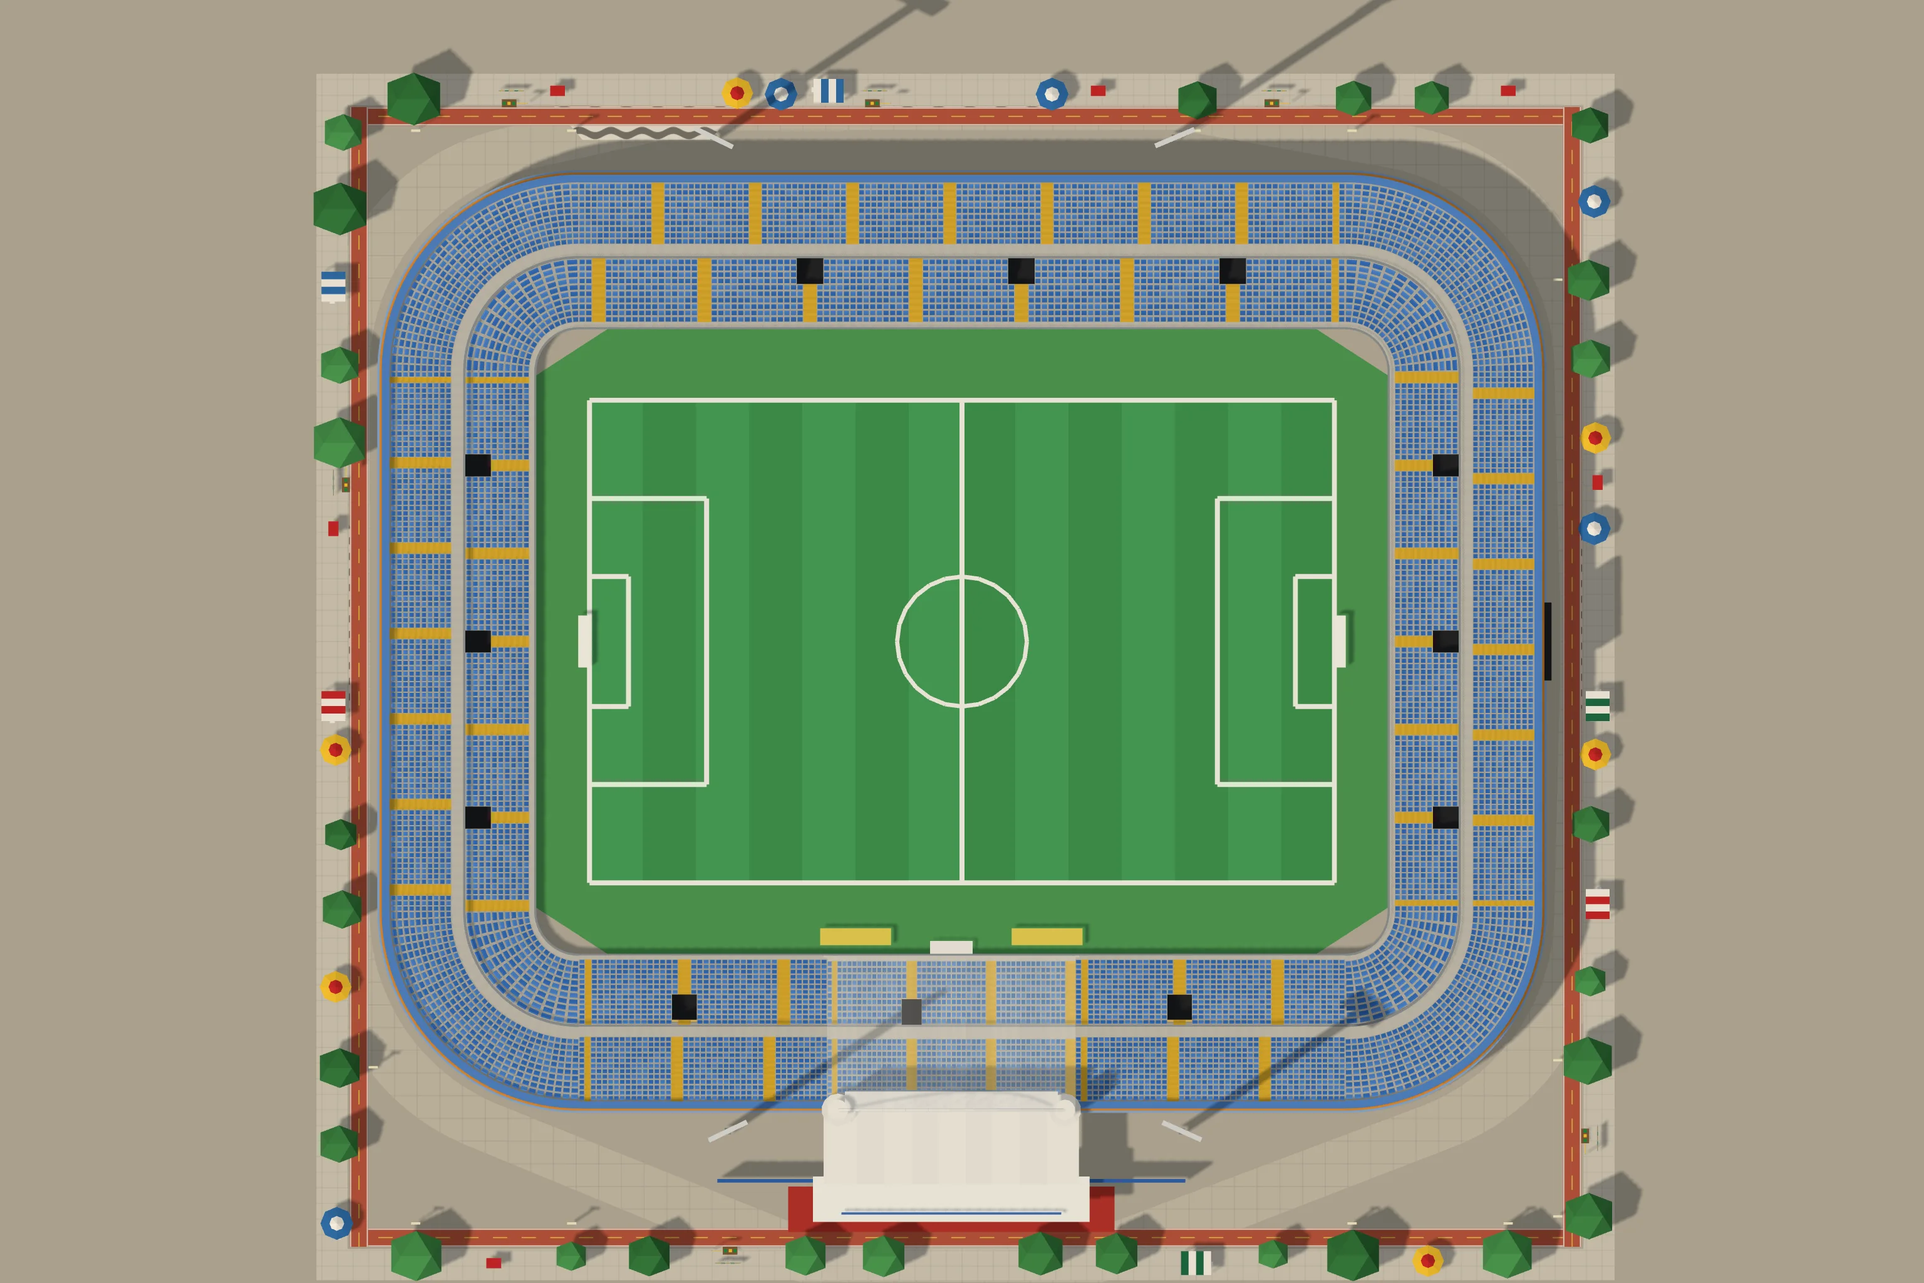
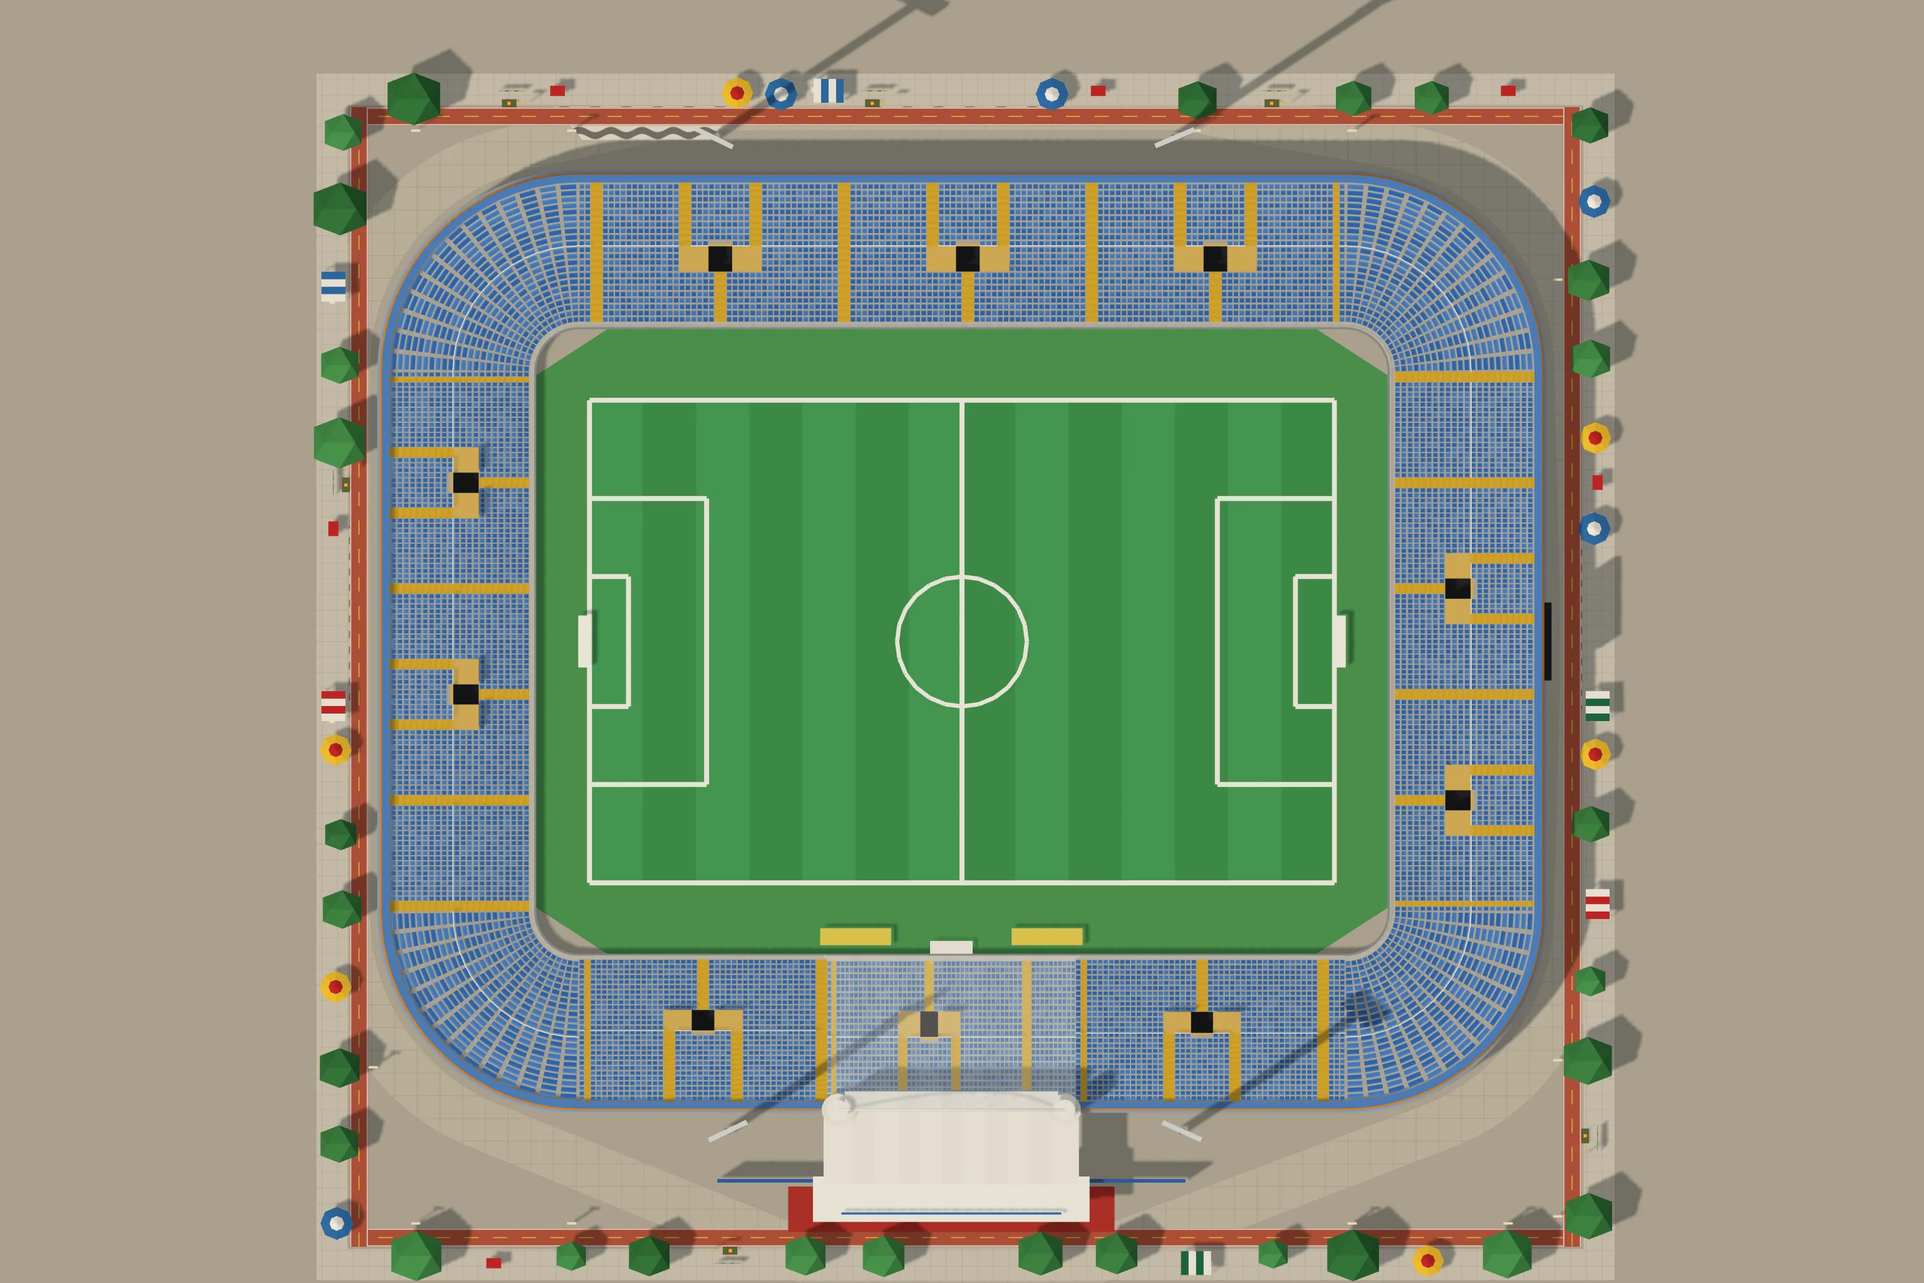
Presidente Vargas: um lance só, com os ferros de proteção e as bocas em Y
Correção do dono: não são dois andares. O gerador ganhou a boca em Y com
patamares e o corrimão corrido ao longo de uma fileira.

Claude-Session: https://claude.ai/code/session_019hwwMAyyP7ZAvyq6wYTetr

Changed region(s): [[0.1875, 0.125, 0.8125, 0.875]]

diff --git a/cenario3d/planta.html b/cenario3d/planta.html
@@ -289,24 +289,24 @@ button:focus-visible, input:focus-visible { outline: 2px solid var(--selecao); o
 
 <script type="module">
 import * as THREE from 'https://cdn.jsdelivr.net/npm/three@0.160.0/build/three.module.min.js';
-import { planoDaCasa, montarCasa, juntarBlocos, lugarDoDecalque, placasDoLote, segmentosDoMuro, carrosDoEstacionamento, portaoDoEstacionamento } from './js/casas3d.js?v=41486aef11';
-import { montarModelos } from './js/modelos3d.js?v=41486aef11';
-import { moldeDaPeca, comTransformador } from './js/props3d.js?v=41486aef11';
-import { ATLAS } from './js/modelos_atlas.js?v=41486aef11';
-import { Construtor, sorteio } from './js/construtor3d.js?v=41486aef11';
-import { gerarProposta, MAPAS, MAPA_DO_PORTE, RUA, LONGE_DO_ESTADIO_M, cisaoDaPraca, VAO_CIDADES_M, PRAIA_A_MAIS } from './js/proposta.js?v=41486aef11';
-import { montarSede, nivelQueCabe } from './js/sede3d.js?v=41486aef11';
-import { onibus as onibusDetalhe, juntar as juntarDetalhe } from './js/detalhe3d.js?v=41486aef11';
-import { montarLoteDeVeraneio, plantaDoLote, festaNoMundo, noMundoDoLote, cenaDaFesta, detalheDaCasaDaFesta } from './js/veraneio3d.js?v=41486aef11';
-import { montarCaravana, cenaDaCaravana } from './js/caravana3d.js?v=41486aef11';
-import { montarEstacao, montarTunel, montarCarro, TREM } from './js/metro3d.js?v=41486aef11';
-import { montarShopping, montarDelegacia, montarPraca, montarIgreja, montarEscola, montarHospital } from './js/equip3d.js?v=41486aef11';
-import { montarEquipAntigo, TIPOS_ANTIGOS } from './js/equip_antigo3d.js?v=41486aef11';
-import { PECAS_PRAIA, montarPecaDaPraia } from './js/praia3d.js?v=41486aef11';
-import { ESPECIES_LP, FLORA_LP, montarArvoreLowpoly, montarAsDez, facesDaArvore, especieLowpolyDe } from './js/arvores_lowpoly.js?v=41486aef11';
-import { plantarMato, montarMato, LONGE_M, DENSIDADE, LADRILHO_M } from './js/mato3d.js?v=41486aef11';
-import { ESTADIOS_JOGO, montarEstadioJogo, glbDoEstadio, cortarEstadio, plantaDoEstadio, modeloDaLotacao, nomeDoLetreiro, nomeComAcento, marcaDoEstadio, BOCAS_DOS_PORTOES, BILHETERIAS_DA_RUA } from './js/estadios3d.js?v=41486aef11';
-import { PECAS_AMBULANTES, montarAmbulante } from './js/ambulantes3d.js?v=41486aef11';
+import { planoDaCasa, montarCasa, juntarBlocos, lugarDoDecalque, placasDoLote, segmentosDoMuro, carrosDoEstacionamento, portaoDoEstacionamento } from './js/casas3d.js?v=72ad2dfa4f';
+import { montarModelos } from './js/modelos3d.js?v=72ad2dfa4f';
+import { moldeDaPeca, comTransformador } from './js/props3d.js?v=72ad2dfa4f';
+import { ATLAS } from './js/modelos_atlas.js?v=72ad2dfa4f';
+import { Construtor, sorteio } from './js/construtor3d.js?v=72ad2dfa4f';
+import { gerarProposta, MAPAS, MAPA_DO_PORTE, RUA, LONGE_DO_ESTADIO_M, cisaoDaPraca, VAO_CIDADES_M, PRAIA_A_MAIS } from './js/proposta.js?v=72ad2dfa4f';
+import { montarSede, nivelQueCabe } from './js/sede3d.js?v=72ad2dfa4f';
+import { onibus as onibusDetalhe, juntar as juntarDetalhe } from './js/detalhe3d.js?v=72ad2dfa4f';
+import { montarLoteDeVeraneio, plantaDoLote, festaNoMundo, noMundoDoLote, cenaDaFesta, detalheDaCasaDaFesta } from './js/veraneio3d.js?v=72ad2dfa4f';
+import { montarCaravana, cenaDaCaravana } from './js/caravana3d.js?v=72ad2dfa4f';
+import { montarEstacao, montarTunel, montarCarro, TREM } from './js/metro3d.js?v=72ad2dfa4f';
+import { montarShopping, montarDelegacia, montarPraca, montarIgreja, montarEscola, montarHospital } from './js/equip3d.js?v=72ad2dfa4f';
+import { montarEquipAntigo, TIPOS_ANTIGOS } from './js/equip_antigo3d.js?v=72ad2dfa4f';
+import { PECAS_PRAIA, montarPecaDaPraia } from './js/praia3d.js?v=72ad2dfa4f';
+import { ESPECIES_LP, FLORA_LP, montarArvoreLowpoly, montarAsDez, facesDaArvore, especieLowpolyDe } from './js/arvores_lowpoly.js?v=72ad2dfa4f';
+import { plantarMato, montarMato, LONGE_M, DENSIDADE, LADRILHO_M } from './js/mato3d.js?v=72ad2dfa4f';
+import { ESTADIOS_JOGO, montarEstadioJogo, glbDoEstadio, cortarEstadio, plantaDoEstadio, modeloDaLotacao, nomeDoLetreiro, nomeComAcento, marcaDoEstadio, BOCAS_DOS_PORTOES, BILHETERIAS_DA_RUA } from './js/estadios3d.js?v=72ad2dfa4f';
+import { PECAS_AMBULANTES, montarAmbulante } from './js/ambulantes3d.js?v=72ad2dfa4f';
 
 const $ = id => document.getElementById(id);
 const aviso = $('aviso');
@@ -323,25 +323,25 @@ function carregarScript(src) {
 }
 window.TO = window.TO || { dados: {} };
 try {
-  await carregarScript('dados/torcidas.js?v=41486aef11');
-  await carregarScript('dados/times.js?v=41486aef11');
-  await carregarScript('dados/cena_estadio.js?v=41486aef11');
-  await carregarScript('dados/cidades.js?v=41486aef11');
-  await carregarScript('dados/estadios.js?v=41486aef11');
-  await carregarScript('dados/escudos.js?v=41486aef11');
+  await carregarScript('dados/torcidas.js?v=72ad2dfa4f');
+  await carregarScript('dados/times.js?v=72ad2dfa4f');
+  await carregarScript('dados/cena_estadio.js?v=72ad2dfa4f');
+  await carregarScript('dados/cidades.js?v=72ad2dfa4f');
+  await carregarScript('dados/estadios.js?v=72ad2dfa4f');
+  await carregarScript('dados/escudos.js?v=72ad2dfa4f');
   /* o manifesto das faixas de verdade (a arte do dono, 29/09/2026): a arquibancada estende a da torcida */
-  await carregarScript('dados/faixas.js?v=41486aef11').catch(() => {});
+  await carregarScript('dados/faixas.js?v=72ad2dfa4f').catch(() => {});
   /* O DOMÍNIO DOS BAIRROS (o dono, 30/09/2026): as sedes repetidas num
      bairro saem espalhadas (nos dados, na carga) e os bares ganham o
      bairro deles — o mesmo módulo do jogo (js/mundo/dominio.js) */
-  await carregarScript('js/dominio.js?v=41486aef11').catch(() => {});
+  await carregarScript('js/dominio.js?v=72ad2dfa4f').catch(() => {});
 } catch (e) {
   aviso.textContent = 'A planta da cidade não carregou (' + e.message + '). Recarregue a página.';
   throw e;
 }
 /* os PNG dos escudos, embutidos (o montar.sh gera): sem o arquivo, o
    caminho vai direto pra img/escudos/ */
-await carregarScript('dados/escudos_embutidos.js?v=41486aef11').catch(() => {});
+await carregarScript('dados/escudos_embutidos.js?v=72ad2dfa4f').catch(() => {});
 const P = TO.dados.plantaEstadio, K = P.CIDADE, M = P.METRO, CALC = K.CALC;
 /* o mapa da vez (o pequeno, o médio ou o grande, montado pra praça
    escolhida): quem monta é usarMapa, lá embaixo */

diff --git a/cenario3d/dados/estadios_cenas.js b/cenario3d/dados/estadios_cenas.js
@@ -22397,7 +22397,7 @@ window.__ESTADIOS = {
    "visitante": 3
   },
   "foto": {
-   "imagem": "img/cenas/estadio_presidente_vargas.webp?v=11f48958",
+   "imagem": "img/cenas/estadio_presidente_vargas.webp?v=b6b58e2f",
    "mascara": "384;384;384;384;384;384;384;384;384;384;384;384;384;384;384;384;384;384;384;384;384;384;384;384;384;384;384;384;384;384;384;384;384;384;111,162,111;105,174,105;102,180,102;99,186,99;97,190,97;95,194,95;94,196,94;92,200,92;91,202,91;90,204,90;88,208,88;87,210,87;86,212,86;85,214,85;85,214,85;84,216,84;83,218,83;82,220,82;82,220,82;81,222,81;81,222,81;80,224,80;80,224,80;79,226,79;79,226,79;78,228,78;78,228,78;78,228,78;77,230,77;77,230,77;77,230,77;76,232,76;76,232,76;76,232,76;76,232,76;76,232,76;76,232,76;76,232,76;76,232,76;76,232,76;76,232,76;76,37,158,37,76;76,37,158,37,76;76,37,158,37,76;76,37,158,37,76;76,37,158,37,76;76,37,158,37,76;76,37,158,37,76;76,37,158,37,76;76,37,158,37,76;76,37,158,37,76;76,37,158,37,76;76,37,158,37,76;76,37,158,37,76;76,37,158,37,76;76,37,158,37,76;76,37,158,37,76;76,37,158,37,76;76,37,158,37,76;76,37,158,37,76;76,37,158,37,76;76,37,158,37,76;76,37,158,37,76;76,37,158,37,76;76,37,158,37,76;76,37,158,37,76;76,37,158,37,76;76,37,158,37,76;76,37,158,37,76;76,37,158,37,76;76,37,158,37,76;76,37,158,37,76;76,37,158,37,76;76,37,158,37,76;76,37,158,37,76;76,37,158,37,76;76,37,158,37,76;76,37,158,37,76;76,37,158,37,76;76,37,158,37,76;76,37,158,37,76;76,37,158,37,76;76,37,158,37,76;76,37,158,37,76;76,37,158,37,76;76,37,158,37,76;76,37,158,37,76;76,37,158,37,76;76,37,158,37,76;76,37,158,37,76;76,37,158,37,76;76,37,158,37,76;76,37,158,37,76;76,37,158,37,76;76,37,158,37,76;76,37,158,37,76;76,37,158,37,76;76,37,158,37,76;76,37,158,37,76;76,37,158,37,76;76,37,158,37,76;76,37,158,37,76;76,37,158,37,76;76,37,158,37,76;76,37,158,37,76;76,37,158,37,76;76,37,158,37,76;76,37,158,37,76;76,37,158,37,76;76,37,158,37,76;76,37,158,37,76;76,37,158,37,76;76,37,158,37,76;76,37,158,37,76;76,37,158,37,76;76,37,158,37,76;76,37,158,37,76;76,37,158,37,76;76,37,158,37,76;76,37,158,37,76;76,37,158,37,76;76,37,158,37,76;76,37,158,37,76;76,37,158,37,76;76,37,158,37,76;76,37,158,37,76;76,37,158,37,76;76,37,158,37,76;76,37,158,37,76;76,37,158,37,76;76,37,158,37,76;76,37,158,37,76;76,37,158,37,76;76,37,158,37,76;76,37,158,37,76;76,37,158,37,76;76,37,158,37,76;76,37,158,37,76;76,37,158,37,76;76,37,158,37,76;76,37,158,37,76;76,37,158,37,76;76,37,158,37,76;76,37,158,37,76;76,37,158,37,76;76,37,158,37,76;76,37,158,37,76;76,232,76;76,232,76;76,232,76;76,232,76;76,232,76;76,232,76;76,232,76;76,232,76;76,232,76;76,232,76;77,230,77;77,230,77;77,230,77;78,228,78;78,228,78;78,228,78;79,226,79;79,226,79;80,224,80;80,224,80;81,222,81;81,222,81;82,220,82;82,220,82;83,218,83;84,216,84;85,214,85;85,214,85;86,212,86;87,210,87;88,208,88;90,204,90;91,202,91;92,200,92;94,196,94;95,194,95;97,190,97;99,186,99;102,180,102;105,174,105;111,162,111;384;384;384;384;384;384;384;384;384;384;384;384;384;384;384;384;384;384;384;384;384;384;384;384;384;384;384;384;384;384;384;384;384;384"
   },
   "cena": {

diff --git a/cenario3d/js/jogo2d.js b/cenario3d/js/jogo2d.js
@@ -17,7 +17,7 @@
    cartão da partida cai perto da hora da bola e nada do que conta o
    placar passa na frente dele.
    ========================================================= */
-import { CASCA } from './jogo_casca.js?v=41486aef11';
+import { CASCA } from './jogo_casca.js?v=72ad2dfa4f';
 
 const carregarScript = src => new Promise((ok, erro) => {
   const s = document.createElement('script');
@@ -31,18 +31,18 @@ async function montarJogo() {
   caixa.innerHTML = CASCA;
   while (caixa.firstChild) document.body.appendChild(caixa.firstChild);
   /* os escudos, as fotos das praças e as bandeiras embutidos (o `IMG()` do jogo procura aqui antes do caminho) */
-  await carregarScript('dados/imagens_jogo.js?v=41486aef11').catch(() => {});
+  await carregarScript('dados/imagens_jogo.js?v=72ad2dfa4f').catch(() => {});
   /* os estádios low-poly das cenas (ferramentas/estadios/assar.js): antes do jogo, que monta as cenas quando carrega */
-  await carregarScript('dados/estadios_cenas.js?v=41486aef11').catch(() => {});
-  await carregarScript('dados/arredores_cenas.js?v=41486aef11').catch(() => {});
+  await carregarScript('dados/estadios_cenas.js?v=72ad2dfa4f').catch(() => {});
+  await carregarScript('dados/arredores_cenas.js?v=72ad2dfa4f').catch(() => {});
   /* sem o rolo do feed: a tela entre os jogos é o portal */
   window.TO = window.TO || {};
   TO.semFeed = true;
-  await carregarScript('js/jogo.js?v=41486aef11');
-  await carregarScript('js/portal.js?v=41486aef11').catch(err => console.error('o portal não carregou:', err));
+  await carregarScript('js/jogo.js?v=72ad2dfa4f');
+  await carregarScript('js/portal.js?v=72ad2dfa4f').catch(err => console.error('o portal não carregou:', err));
   /* o boneco das cenas de imagem (os dois níveis afinados, em base64) */
-  if (!TO.dados.bonecoPertoGLB) await carregarScript('dados/boneco_glb.js?v=41486aef11').catch(() => {});
-  await import('./bonecos3_global.js?v=41486aef11').catch(err => console.error('o boneco das cenas não carregou:', err));
+  if (!TO.dados.bonecoPertoGLB) await carregarScript('dados/boneco_glb.js?v=72ad2dfa4f').catch(() => {});
+  await import('./bonecos3_global.js?v=72ad2dfa4f').catch(err => console.error('o boneco das cenas não carregou:', err));
   ligar();
 }
 

diff --git a/cenario3d/jogo.html b/cenario3d/jogo.html
@@ -9,16 +9,16 @@
 <link rel="preconnect" href="https://fonts.googleapis.com">
 <link rel="preconnect" href="https://fonts.gstatic.com" crossorigin>
 <link rel="stylesheet" href="https://fonts.googleapis.com/css2?family=Barlow+Semi+Condensed:wght@500;600;700&family=Barlow:wght@400;500;600&family=IBM+Plex+Mono:wght@400;500&display=swap">
-<link rel="stylesheet" href="css/jogo.css?v=41486aef11">
-<link rel="stylesheet" href="css/jogo3d.css?v=41486aef11">
-<link rel="stylesheet" href="css/portal.css?v=41486aef11">
-<link rel="stylesheet" href="css/telas3d.css?v=41486aef11">
+<link rel="stylesheet" href="css/jogo.css?v=72ad2dfa4f">
+<link rel="stylesheet" href="css/jogo3d.css?v=72ad2dfa4f">
+<link rel="stylesheet" href="css/portal.css?v=72ad2dfa4f">
+<link rel="stylesheet" href="css/telas3d.css?v=72ad2dfa4f">
 <style>
 [hidden] { display: none !important; }
 html, body { height: 100%; margin: 0; }
 </style>
 </head>
 <body class="jogo3d">
-<script type="module" src="js/jogo2d.js?v=41486aef11"></script>
+<script type="module" src="js/jogo2d.js?v=72ad2dfa4f"></script>
 </body>
 </html>

diff --git a/cenario3d/js/casas3d.js b/cenario3d/js/casas3d.js
@@ -60,10 +60,10 @@
    avançam (`rec`), e o letreiro, a pixação e a falha de reboco do
    bairro vão pro plano dessa parede, não pro da divisa.
    ========================================================= */
-import { Construtor, METRO, mureta, toldo, arSplit, sorteio } from './construtor3d.js?v=41486aef11';
-import { ATLAS } from './modelos_atlas.js?v=41486aef11';
+import { Construtor, METRO, mureta, toldo, arSplit, sorteio } from './construtor3d.js?v=72ad2dfa4f';
+import { ATLAS } from './modelos_atlas.js?v=72ad2dfa4f';
 /* as lojas do assalto (lojas3d.js): modelos de lote como os outros */
-import { TIPOS_LOJA, REC_LOJA, placaDaLoja } from './lojas3d.js?v=41486aef11';
+import { TIPOS_LOJA, REC_LOJA, placaDaLoja } from './lojas3d.js?v=72ad2dfa4f';
 
 /* o arquivo de cada folha, pro bairro montar o material dele */
 export const arquivoDaFolha = folha => ATLAS[folha].arquivo;

diff --git a/cenario3d/js/ambulantes3d.js b/cenario3d/js/ambulantes3d.js
@@ -27,8 +27,8 @@
    que a planta acha o lugar dela na calçada do estádio. `sol`: o meio e
    o raio da copa ([x, z, r]), que o mapa desenha de perto.
    ========================================================= */
-import { Construtor, noMundo, placasNoMundo, sorteio, esfera, unit } from './construtor3d.js?v=41486aef11';
-import { Lugar, barra, tubo, cilindro, bloco, pano, toro, guardaSol, cadeiraPlastica, isopor, banqueta, CORES_SOL } from './praia3d.js?v=41486aef11';
+import { Construtor, noMundo, placasNoMundo, sorteio, esfera, unit } from './construtor3d.js?v=72ad2dfa4f';
+import { Lugar, barra, tubo, cilindro, bloco, pano, toro, guardaSol, cadeiraPlastica, isopor, banqueta, CORES_SOL } from './praia3d.js?v=72ad2dfa4f';
 
 const AQUI = Lugar();
 const escolha = (rnd, lista) => lista[Math.floor(rnd() * lista.length) % lista.length];

diff --git a/cenario3d/js/praia3d.js b/cenario3d/js/praia3d.js
@@ -36,8 +36,8 @@
    cadeira e a mesa de plástico) servem também os ambulantes da porta do
    estádio (ambulantes3d.js), na mesma folha.
    ========================================================= */
-import { Construtor, METRO, lerp, sub, soma, esc, unit, pv, noMundo, placasNoMundo, sorteio, varrer, esfera } from './construtor3d.js?v=41486aef11';
-import { montarArvoreLowpoly } from './arvores_lowpoly.js?v=41486aef11';
+import { Construtor, METRO, lerp, sub, soma, esc, unit, pv, noMundo, placasNoMundo, sorteio, varrer, esfera } from './construtor3d.js?v=72ad2dfa4f';
+import { montarArvoreLowpoly } from './arvores_lowpoly.js?v=72ad2dfa4f';
 
 const ALTO = [0, 1, 0];
 const escolha = (rnd, lista) => lista[Math.floor(rnd() * lista.length) % lista.length];

diff --git a/cenario3d/js/modelos3d.js b/cenario3d/js/modelos3d.js
@@ -32,8 +32,8 @@
    requadro da janela, toldo, ar-condicionado. O resto é pintura.
    ========================================================= */
 import * as THREE from 'https://cdn.jsdelivr.net/npm/three@0.160.0/build/three.module.min.js';
-import { ATLAS } from './modelos_atlas.js?v=41486aef11';
-import { Construtor, METRO, lerp, sub, soma, esc, pv, pe, unit, recuoPoligono, mureta, toldo, arSplit } from './construtor3d.js?v=41486aef11';
+import { ATLAS } from './modelos_atlas.js?v=72ad2dfa4f';
+import { Construtor, METRO, lerp, sub, soma, esc, pv, pe, unit, recuoPoligono, mureta, toldo, arSplit } from './construtor3d.js?v=72ad2dfa4f';
 
 /* =======================================================
    1. A IGREJA MATRIZ

diff --git a/cenario3d/js/props3d.js b/cenario3d/js/props3d.js
@@ -26,8 +26,8 @@
    poste vira uma haste de longe; o resto, que é miúdo, some.
    ========================================================= */
 import * as THREE from 'https://cdn.jsdelivr.net/npm/three@0.160.0/build/three.module.min.js';
-import { ATLAS } from './modelos_atlas.js?v=41486aef11';
-import { Construtor, METRO, lerp } from './construtor3d.js?v=41486aef11';
+import { ATLAS } from './modelos_atlas.js?v=72ad2dfa4f';
+import { Construtor, METRO, lerp } from './construtor3d.js?v=72ad2dfa4f';
 
 /* as cores que o vértice dá pro que sai claro na folha */
 const COR_CESTO = ['#6aa33a', '#d2b53a', '#3f82ad', '#8b6a3c', '#b8452f'];

diff --git a/cenario3d/js/mato3d.js b/cenario3d/js/mato3d.js
@@ -19,8 +19,8 @@
 
    Tudo em metros; `noMundo` converte. A mesma semente dá o mesmo mato.
    ========================================================= */
-import { METRO, noMundo, sorteio } from './construtor3d.js?v=41486aef11';
-import { facesDaArvore, especieLowpolyDe } from './arvores_lowpoly.js?v=41486aef11';
+import { METRO, noMundo, sorteio } from './construtor3d.js?v=72ad2dfa4f';
+import { facesDaArvore, especieLowpolyDe } from './arvores_lowpoly.js?v=72ad2dfa4f';
 
 /* a área de chão de cada árvore (m²), por lugar */
 export const DENSIDADE = { mata: 70, cerrado: 200, caatinga: 150, sul: 90, praia: 120, cidade: 250 };

diff --git a/cenario3d/js/bonecos3_global.js b/cenario3d/js/bonecos3_global.js
@@ -14,7 +14,7 @@
    DOMContentLoaded: quem usa (a ponte, numa cena aberta pelo jogador)
    chega muito depois.
    ========================================================= */
-import { montar, desenharDeCima, desenharVitrine, limparDeCima, fotoDoTrofeu, fotoDaBriga, fotoDaCena, perdeu, bonecos } from './bonecos3_cena.js?v=41486aef11';
+import { montar, desenharDeCima, desenharVitrine, limparDeCima, fotoDoTrofeu, fotoDaBriga, fotoDaCena, perdeu, bonecos } from './bonecos3_cena.js?v=72ad2dfa4f';
 
 window.TO = window.TO || {};
 TO.diaJogo = TO.diaJogo || {};

diff --git a/cenario3d/js/bonecos3_cena.js b/cenario3d/js/bonecos3_cena.js
@@ -103,7 +103,7 @@
       numa fase sorteada (quem sai junto não sai no mesmo pé).
    ========================================================= */
 import * as THREE from 'https://cdn.jsdelivr.net/npm/three@0.160.0/build/three.module.min.js';
-import { GLTFLoader, SkeletonUtils } from './GLTFLoader.js?v=41486aef11';
+import { GLTFLoader, SkeletonUtils } from './GLTFLoader.js?v=72ad2dfa4f';
 
 /* onde o modelo mora, quando não vem embutido em base64: o detalhado
    (o do Blender) e os dois níveis afinados dele (ferramentas/afinar_boneco.mjs) */
